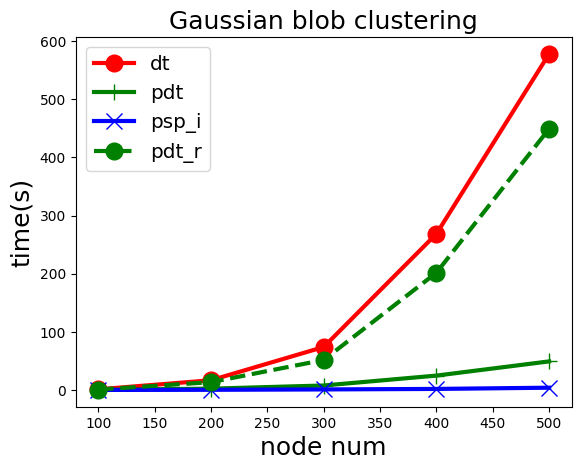
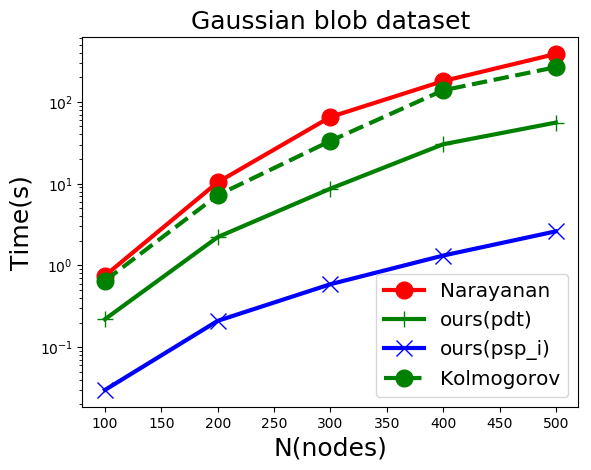
update graph plot

diff --git a/experiment/plotter.py b/experiment/plotter.py
@@ -11,7 +11,7 @@ import matplotlib.pyplot as plt
 color_list = ['red', 'green', 'blue', 'green']
 marker_list = ['o', '+', 'x', 'o']
 linestyle_list = ['-','-', '-', '--']
-method_translate = {'pdt_r': 'Kolmogorov', 'dt': 'Narayanan', 'psp_i': 'ours', 'pdt': 'ours'}
+method_translate = {'pdt_r': 'Kolmogorov', 'dt': 'Narayanan', 'psp_i': 'ours(psp_i)', 'pdt': 'ours(pdt)'}
 
 def plot_gaussian_demo_data():
     color_list = ['#3FF711', 'r', 'g', 'm','y','k','c','#00FF00']

diff --git a/experiment/README.md b/experiment/README.md
@@ -1,10 +1,13 @@
 We compare the running speed of 4 implementations for principal sequence of partition.
 
-Two types of graph are used: Gaussian and Two-Level graph.
+n is the number of node and m is the number of edge for a graph.
 
-Average over 3 times on each datapoint.
+Two types of graph are used: Gaussian ( n = m* m ) and Two-Level graph ( n = m^1.5 ).
+
+Average over 5 times on each datapoint.
 ![](gaussian.png)
 ![](two_level.png)
+
 ## Multi-processing
 ```shell
 python alg_speed.py --num_times=2 --node_size=200 --method=dt --total_times --multi_thread
